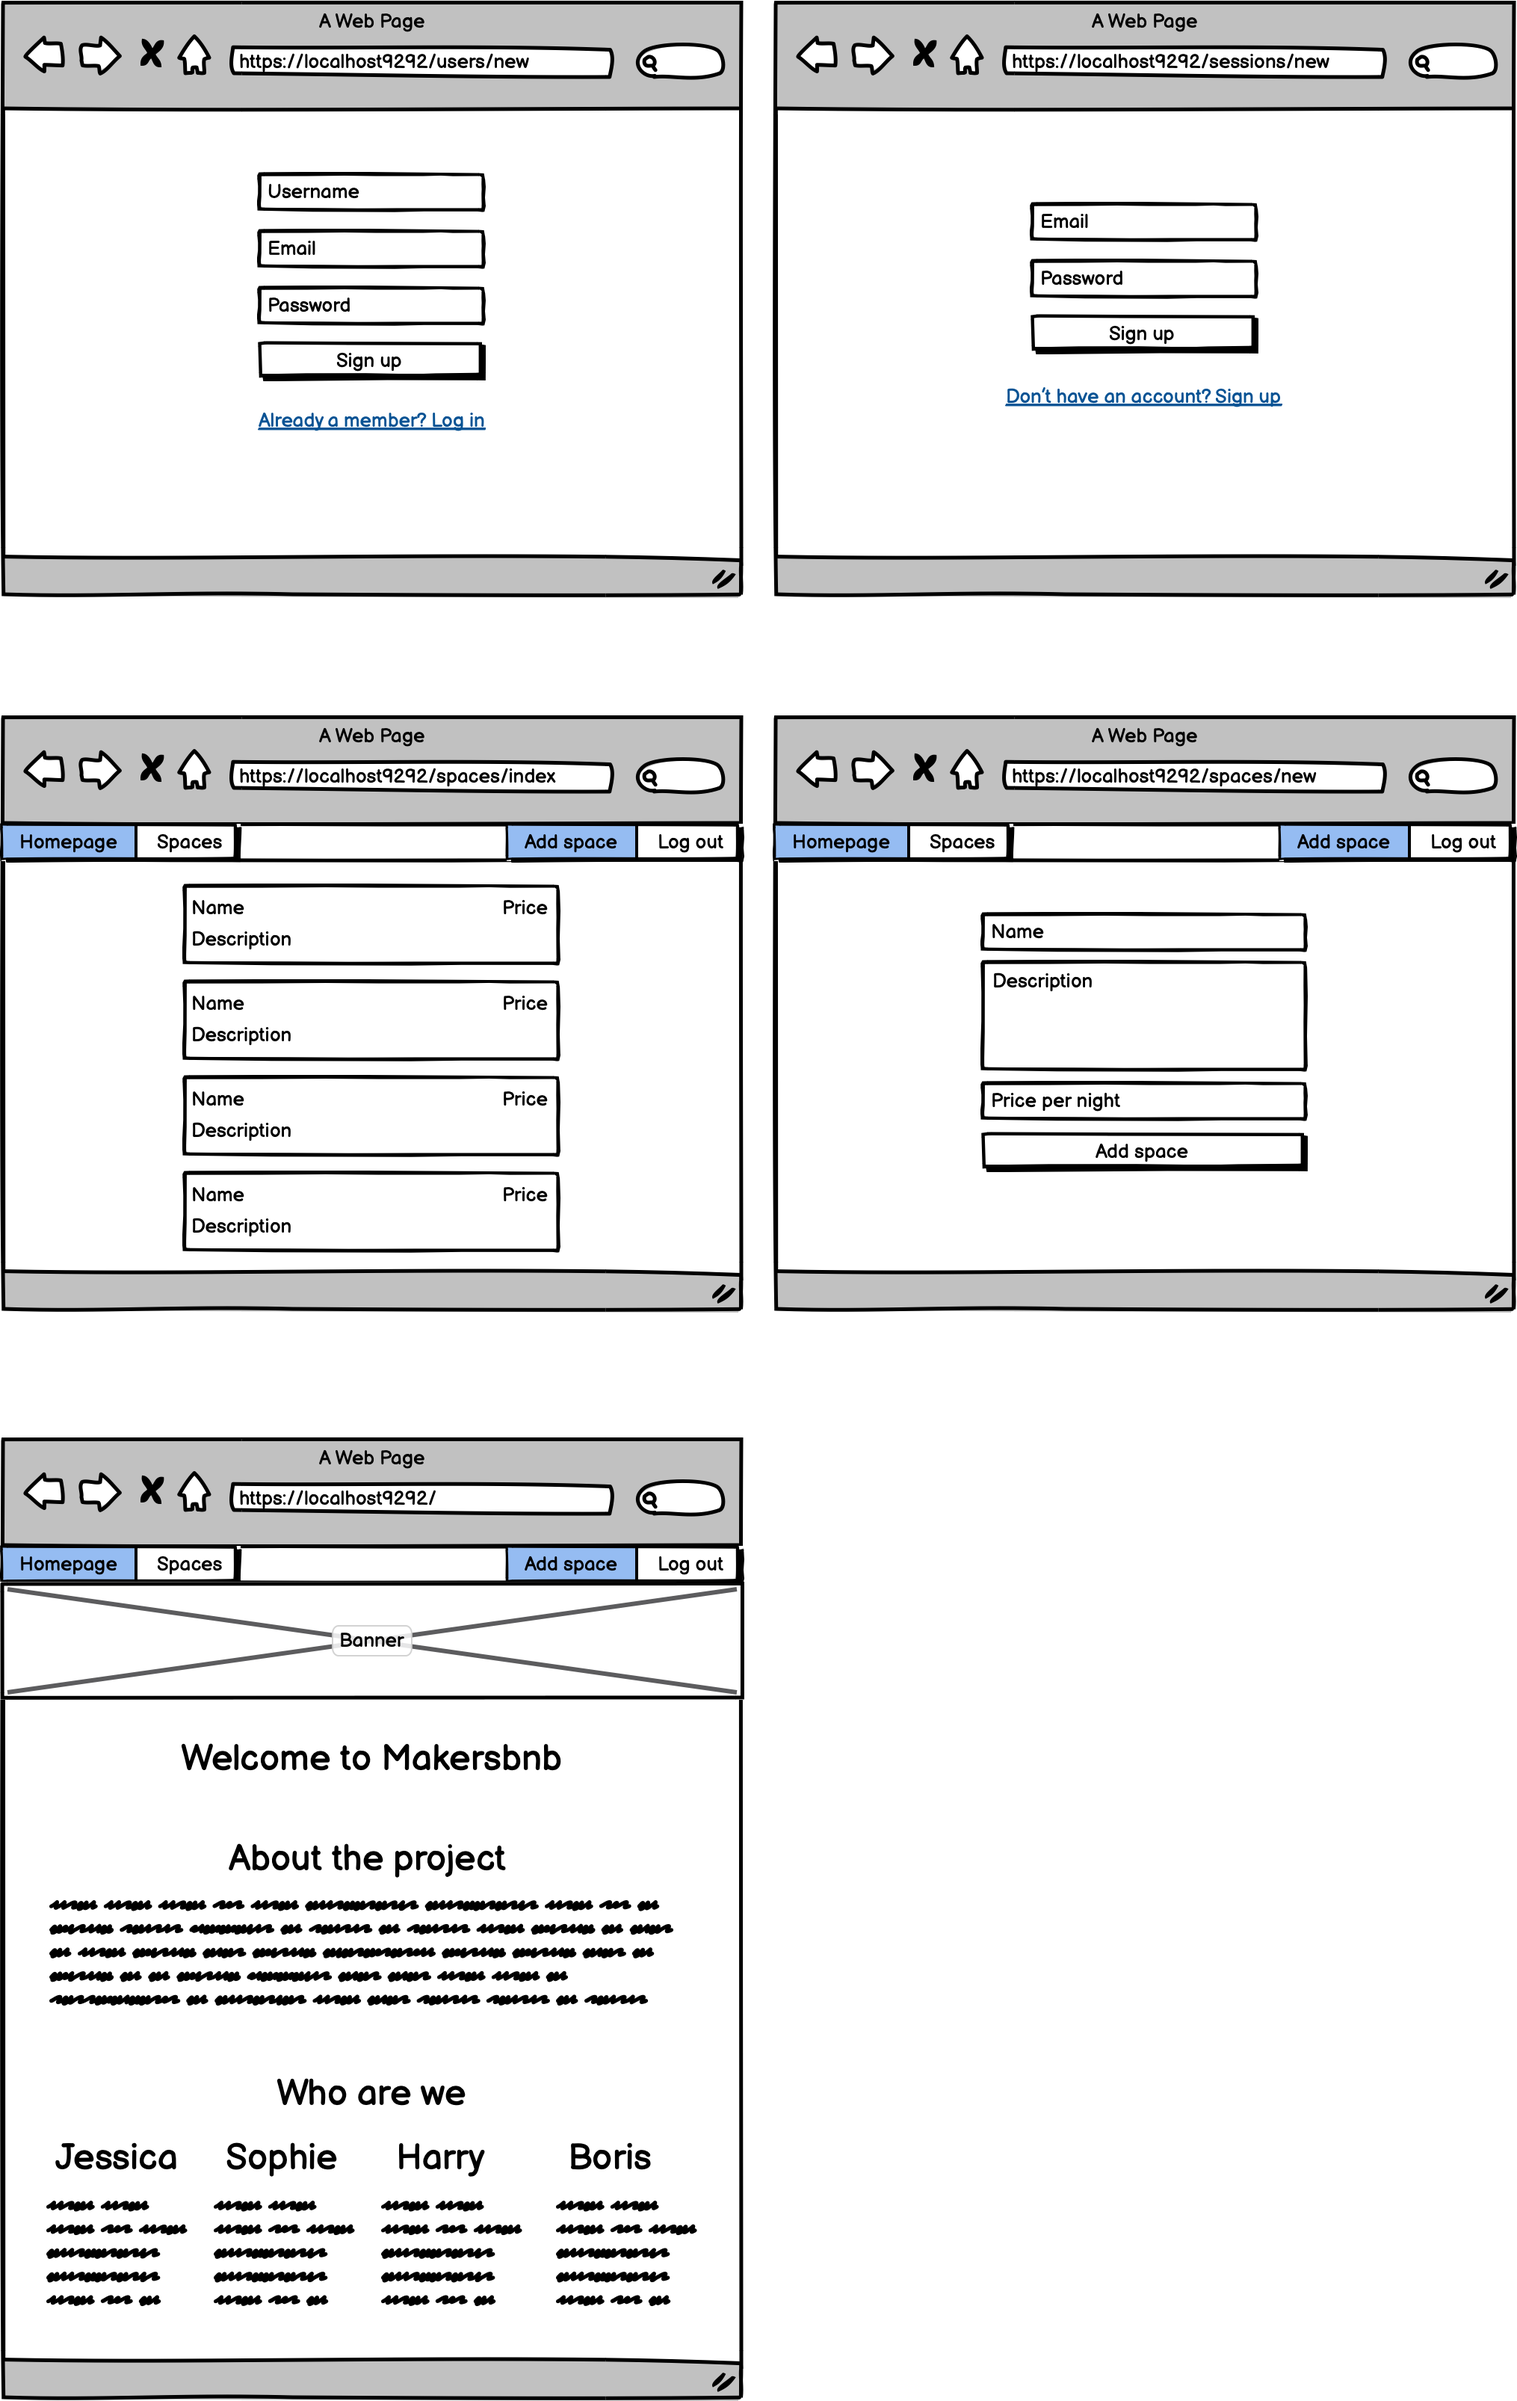
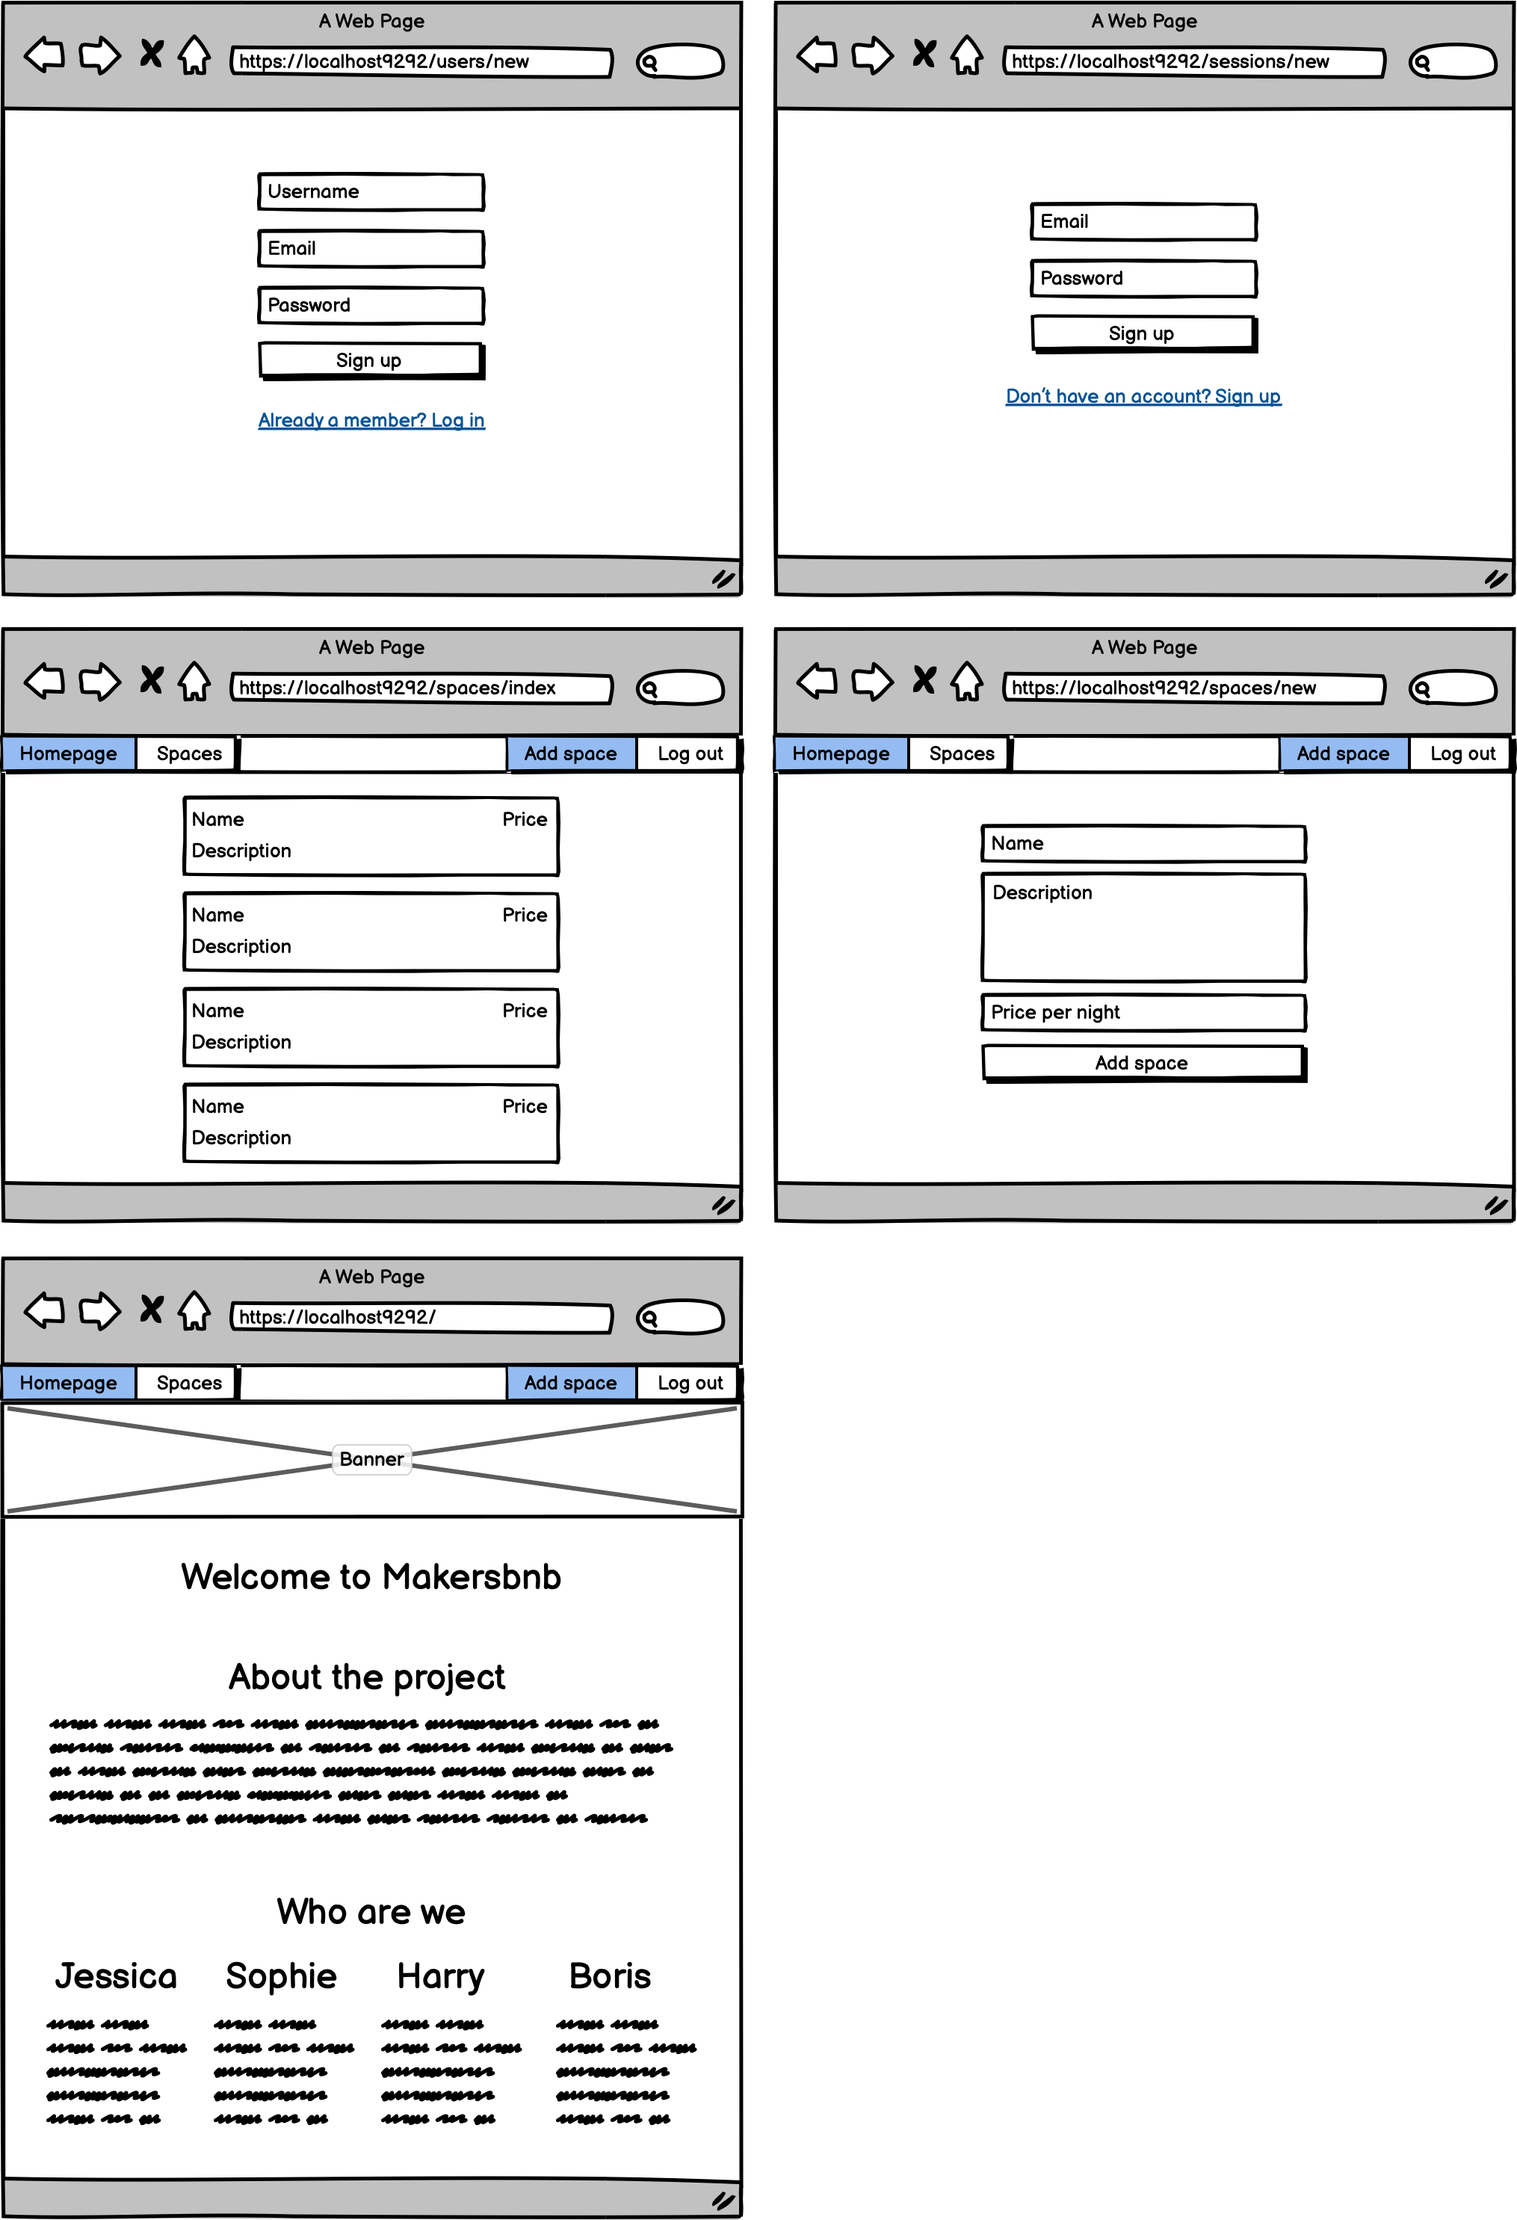
Add wireframes

Changed region(s): [[0.0, 0.0, 1.0, 1.0], [0.5276, 0.0, 0.9931, 0.1859], [0.4655, 0.9912, 0.4966, 1.0]]

diff --git a/README.md b/README.md
@@ -85,6 +85,10 @@ I can receive booking requests for my spaces until I have confirmed one for each
 
 ![Database domain Modelling](https://github.com/Maldorana/Makersbnb/blob/main/Database%20domain%20modeling.png)
 
+## Wireframes
+
+![Wireframes](https://github.com/Maldorana/Makersbnb/blob/main/wireframes.png)
+
 ## MakersBnB specification
 
 We would like a web application that allows users to list spaces they have available, and to hire spaces for the night.
